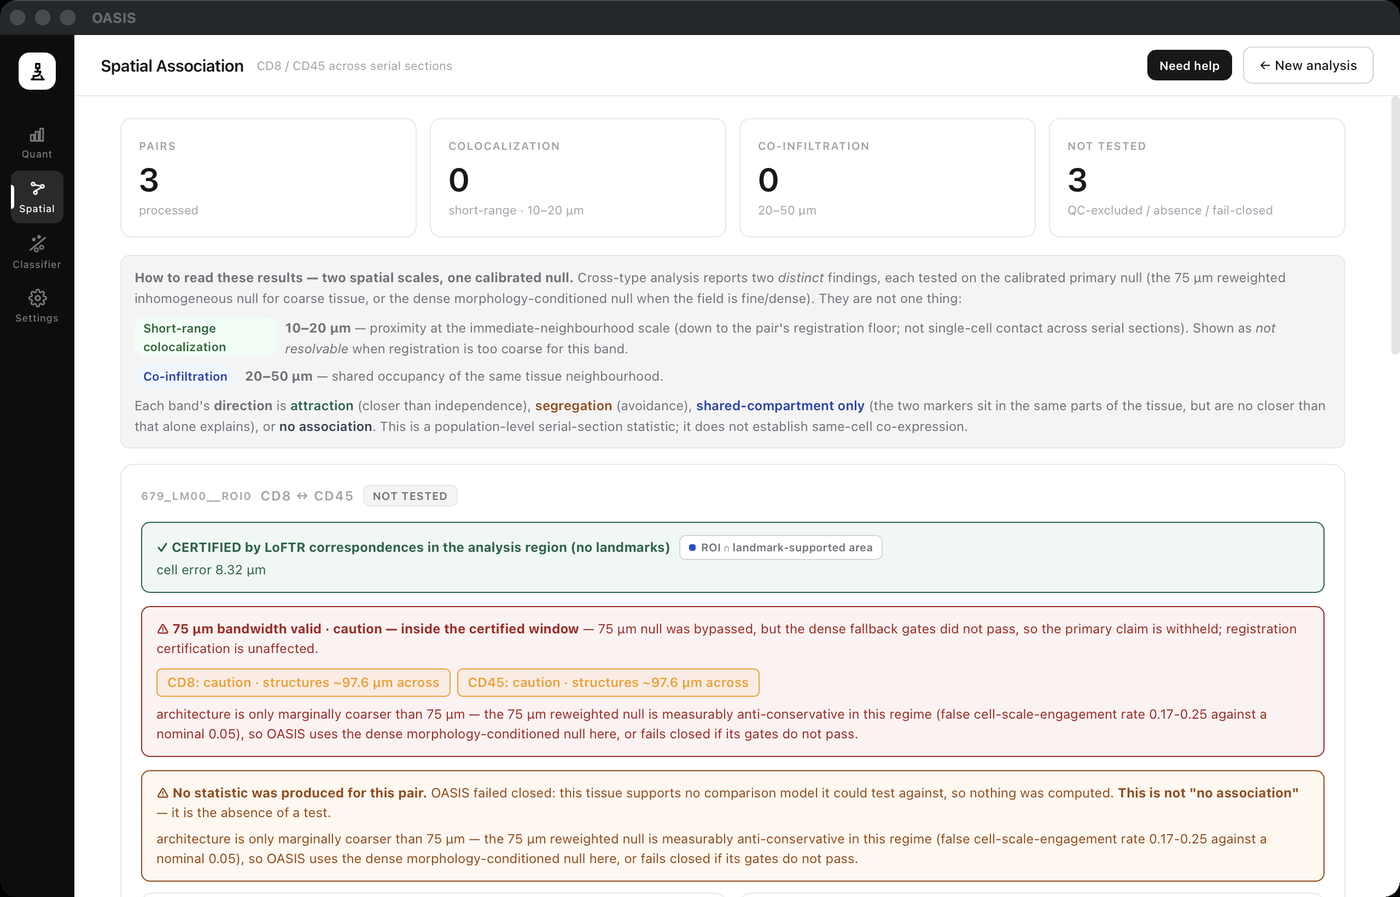
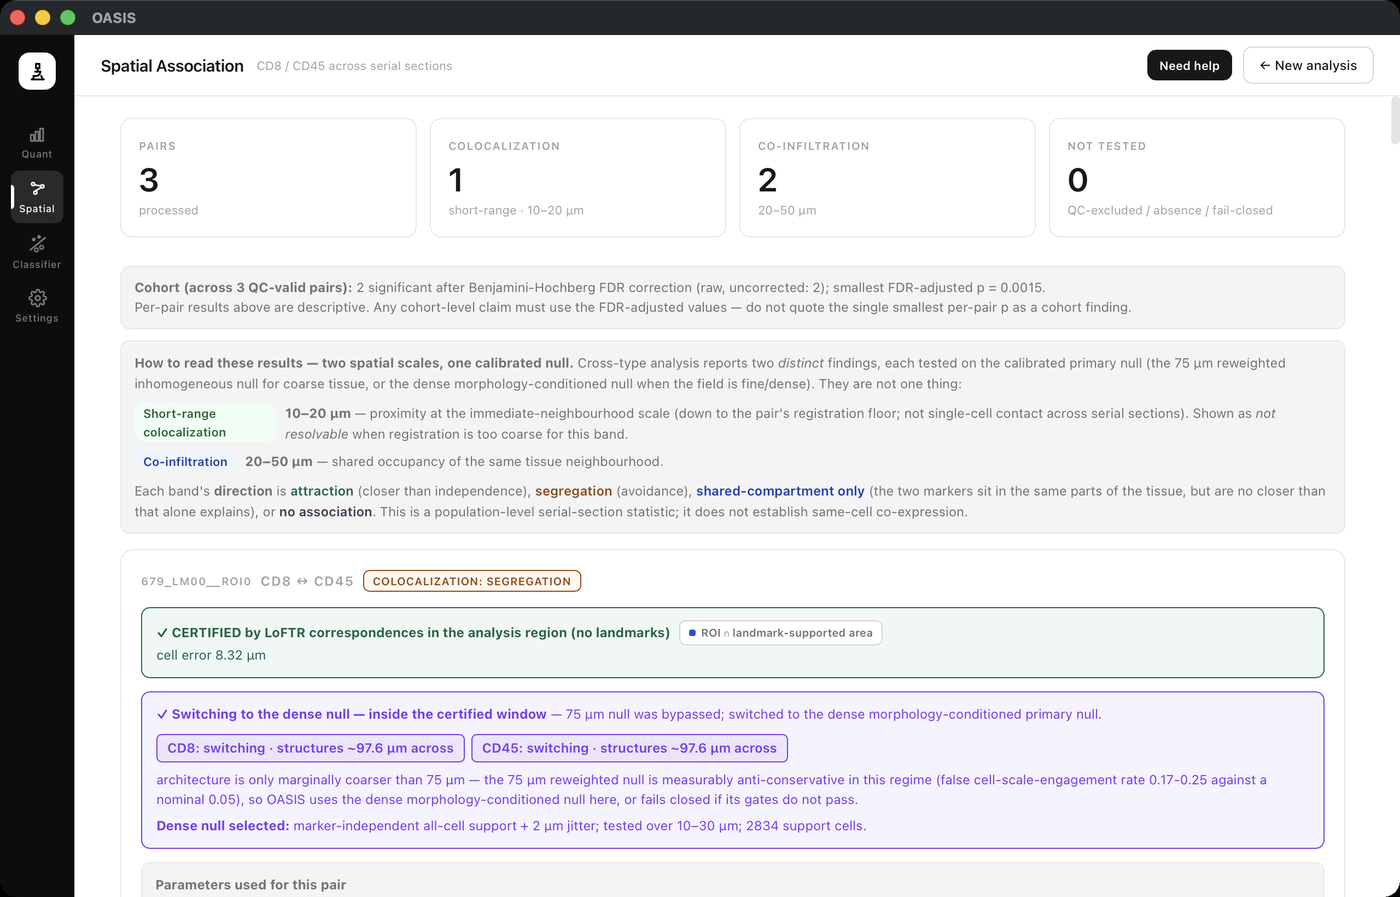
Re-shoot the Spatial pictures, and make the capture say why it stalled
The step 5 and 6 pictures documented the two bugs just fixed: step 6 showed three
pairs withheld, captioned with a cause that was never true ("the dense fallback gates
did not pass" — the gates never ran), and step 5 had been dropped because it showed
"no measured cells" for every section. Both are real screens again, from one run on
the same serial CD8/CD45 fields: three pairs, each with its own two histograms and
its own null, switching to the dense null; then certified at 8.32 um, tested against
that null, two of three surviving the cohort FDR correction.

Three things had to be fixed in the capture tool to get there.

BATCH MODE HAS TO SURVIVE A TICK. Init is `pywebviewready -> await loadSetup() ->
spatialAssocSetMode('single')`, so the reset lands whenever that await resolves. For a
person it is a no-op (the mode is already single and the function returns early); for
a script that has clicked Batch inside the first second it flips the mode back AND
clears every certificate. Observed: 3 pairs previewed, mode 'single', zero pairs at
the null-check gate, and a forty-minute silent wait. Same shape as the quantSetMode
race, same fix — set it, confirm it held, retry.

THE NULL-CHECK WAIT HAD NOTHING TO FAIL ON. spatialBandwidthCheck() returns early on
"no pairs" with a toast and nothing written to #spatial-bw-result, so the wait sat out
its full 2400s in silence. It now prints what the gate sees before opening it, and
fails on the badge reaching ERROR / CERT REQUIRED.
[…]

diff --git a/oasis/webui/index.html b/oasis/webui/index.html
@@ -6995,16 +6995,21 @@ const HELP = {
       { h: 'Set the cutoffs and check the null',
         p: 'Each section carries a different marker, so each gets its own cutoff, judged '
          + 'against its own histogram. On the same screen OASIS names the comparison model '
-         + 'this tissue supports — and says so plainly if none of them fits, which is what '
-         + 'the picture shows: nothing is written until you continue.' },
+         + 'this tissue supports, and says so plainly if none of them fits. In a batch every '
+         + 'pair gets its own section here. Nothing is written until you continue.',
+        img: 'spatial-5-review.png',
+        cap: 'Three serial CD8/CD45 pairs, each with its own two histograms and its own null. '
+           + 'This tissue measures just above the 75 µm bandwidth, so the run switches to the '
+           + 'dense null rather than trusting the reweighted one.' },
       { h: 'Read the association',
         p: 'A cross-type Ripley\'s K curve against the chosen null, with the certified window '
          + 'and its measured error beside it. When the tissue supports no null OASIS reports '
          + 'that instead, and says so in as many words — an absent test is not a negative '
          + 'result, and the two are never shown as the same thing.',
         img: 'spatial-6-results.png',
-        cap: 'A real run on serial CD8/CD45: certified at 8.32 µm, and all three pairs '
-           + 'withheld because the dense fallback gates did not pass.' },
+        cap: 'The same three pairs, certified at 8.32 µm and tested against the dense null. '
+           + 'CD8 sits apart from CD45 rather than with it: at the short range in one pair, '
+           + 'at the wider scale in two. Two of the three survive the cohort FDR correction.' },
     ],
     foot: 'No certification, no finding — an uncertified pair is flagged, never reported.'
   },

diff --git a/tools/capture_help.py b/tools/capture_help.py
@@ -334,7 +334,26 @@ def do_spatial(stop_after_certify=False):
     print("  spatial")
     js("showPage('spatial')")
     time.sleep(0.8)
-    click("spatial-mode-batch-btn")
+
+    # Batch mode has to SURVIVE A TICK before anything else happens, for the same reason
+    # quantSetMode does. Init is `pywebviewready → await loadSetup() → spatialAssocSetMode
+    # ('single')`, so the reset lands whenever that await resolves — after this script has
+    # clicked Batch and, at 0.8 s in, usually after it has previewed the folders too. The
+    # call is a no-op for a person (the mode is already 'single' when init runs and the
+    # function returns early), but here it flips the mode back AND clears
+    # `spatialCertifications`, so the certify loop then finds no pairs and every wait after
+    # it sits out its timeout. Observed exactly that: 3 pairs previewed, mode 'single',
+    # zero pairs at the gate.
+    mode = ""
+    for _ in range(10):
+        click("spatial-mode-batch-btn")
+        time.sleep(1.0)
+        mode = js("typeof spatialMode !== 'undefined' ? String(spatialMode) : 'undefined'")
+        if mode == "batch":
+            break
+    if mode != "batch":
+        _failures.append(f"spatial: batch mode did not stick (spatialMode={mode!r})")
+        return
     click("spatial-fmode-two-btn")
     set_field("spatial-folder-a", str(SPATIAL_A))
     set_field("spatial-folder-b", str(SPATIAL_B))
@@ -393,10 +412,43 @@ def do_spatial(stop_after_certify=False):
 
     js("spatialWizardGoTo(6)")
     time.sleep(0.8)
+
+    # SAY WHAT THE GATE SEES BEFORE OPENING IT. spatialBandwidthCheck() returns early on
+    # "no pairs" with a toast and NOTHING written to #spatial-bw-result, so the wait below
+    # has nothing to fail on and sits out its full forty minutes in silence. Observed: the
+    # certify phase finished, the pair list was empty by the time step 6 ran, and the run
+    # stalled with no worker, no output and no message.
+    gate = js("""(function(){
+        const u = (typeof spatialUncertifiedPairs === 'function') ? spatialUncertifiedPairs() : null;
+        return { mode: String(typeof spatialMode !== 'undefined' ? spatialMode : '?'),
+                 previewed: (typeof spatialPairs !== 'undefined' && spatialPairs) ? spatialPairs.length : -1,
+                 gate_pairs: u ? u.pairs.length : -1,
+                 uncertified: u ? u.uncertified.length : -1 };
+    })()""") or {}
+    print(f"      null-check gate: {gate}", flush=True)
+    if not gate.get("gate_pairs"):
+        _failures.append(f"spatial: the null check has no pairs to run on ({gate}) — "
+                         f"the pair list was lost between certification and step 6")
+        return
+    if gate.get("uncertified"):
+        _failures.append(f"spatial: {gate['uncertified']} pair(s) uncertified at step 6")
+        return
+
     js("spatialBandwidthCheck()")
-    wait_for("document.getElementById('spatial-bw-result') && "
-             "document.getElementById('spatial-bw-result').innerHTML.length > 200",
-             timeout=2400, what="the null-model check")
+    # Fail on the badge too. It reaches ERROR / CERT REQUIRED in seconds, and waiting for
+    # prose that will never be written turns a clear failure into a silent forty minutes.
+    if not wait_for("(document.getElementById('spatial-bw-result') && "
+                    " document.getElementById('spatial-bw-result').innerHTML.length > 200) || "
+                    "['ERROR','CERT REQUIRED'].includes("
+                    " (document.getElementById('spatial-bw-badge')||{}).textContent)",
+                    timeout=2400, what="the null-model check"):
+        _failures.append("spatial: the null check never reported")
+        return
+    badge = js("(document.getElementById('spatial-bw-badge')||{}).textContent")
+    if badge in ("ERROR", "CERT REQUIRED"):
+        _failures.append(f"spatial: the null check came back {badge}")
+        return
+    print(f"      null check: {badge}", flush=True)
     time.sleep(1.5)
 
     js("spatialAssocRun()")
@@ -407,11 +459,17 @@ def do_spatial(stop_after_certify=False):
         shot("spatial-5-review.png")
         js("spReviewApply()")
 
-    if wait_for("document.getElementById('spatial-results').classList.contains('active')",
-                timeout=2400, what="the Spatial results screen"):
-        time.sleep(3.0)
+    # Wait for the CARDS, not for the view. The results view is switched on first and filled
+    # afterwards from the results JSON, so anchoring on `.active` shot an empty window: the
+    # picture that shipped was 12 KB of background with a title bar.
+    if wait_for("document.getElementById('spatial-results').classList.contains('active') && "
+                "document.getElementById('spatial-results-cards').innerHTML.length > 500",
+                timeout=2400, what="the Spatial results to render"):
+        time.sleep(2.0)
         scroll_to(top=0)
         shot("spatial-6-results.png")
+    else:
+        _failures.append("spatial: the results screen never rendered any cards")
 
 
 def do_classifier():
@@ -517,9 +575,45 @@ def do_spatial_certify():
     do_spatial(stop_after_certify=True)
 
 
+def do_spatial_results():
+    """Step 6 alone, from a run that has already finished.
+
+    The results screen is filled from the results JSON on disk, so re-shooting it does not
+    need another certification and another Monte-Carlo run — the previous half hour already
+    produced the numbers. Same code path the run itself uses: the completion event hands
+    `spatialAssocShowResults` exactly what `get_spatial_association_results` returns.
+    """
+    print("  spatial results")
+    js("showPage('spatial')")
+    time.sleep(0.8)
+    ok = js(f"""(async function(){{
+        const r = await window.pywebview.api.get_spatial_association_results(
+            {json.dumps(str(OUT / 'spatial'))});
+        if (!r || !(r.results || []).length) return false;
+        // Adopt the markers off the results themselves. In a real run the folder preview
+        // does this; loading from disk skips the preview, so the page subtitle keeps its
+        // MARKER_A/TIM-3 default and the picture then names markers this cohort never had.
+        const p0 = r.results[0] || {{}};
+        const set = (id, v) => {{ const e = document.getElementById(id); if (e && v) e.value = v; }};
+        set('spatial-label-a', p0.stain_a); set('spatial-label-b', p0.stain_b);
+        if (typeof spatialSyncPageSubtitle === 'function') spatialSyncPageSubtitle();
+        spatialAssocShowResults(r);
+        return (r.results || []).length;
+    }})()""")
+    if not wait_for("document.getElementById('spatial-results').classList.contains('active') && "
+                    "document.getElementById('spatial-results-cards').innerHTML.length > 500",
+                    timeout=120, what="the stored results to render"):
+        _failures.append(f"spatial results: nothing rendered from {OUT / 'spatial'} "
+                         f"(loader returned {ok!r}) — run the `spatial` group first")
+        return
+    time.sleep(2.0)
+    scroll_to(top=0)
+    shot("spatial-6-results.png")
+
+
 GROUPS = {"settings": do_settings, "quant": do_quant,
           "spatial": do_spatial, "certify": do_spatial_certify,
-          "classifier": do_classifier}
+          "results": do_spatial_results, "classifier": do_classifier}
 
 
 def drive():
